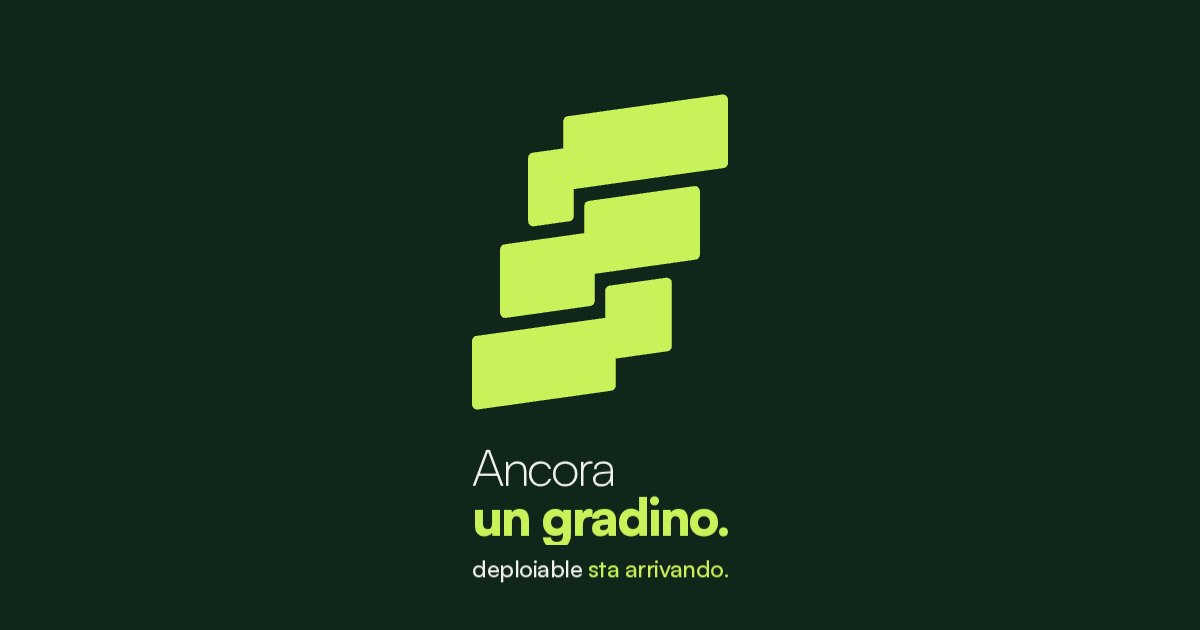
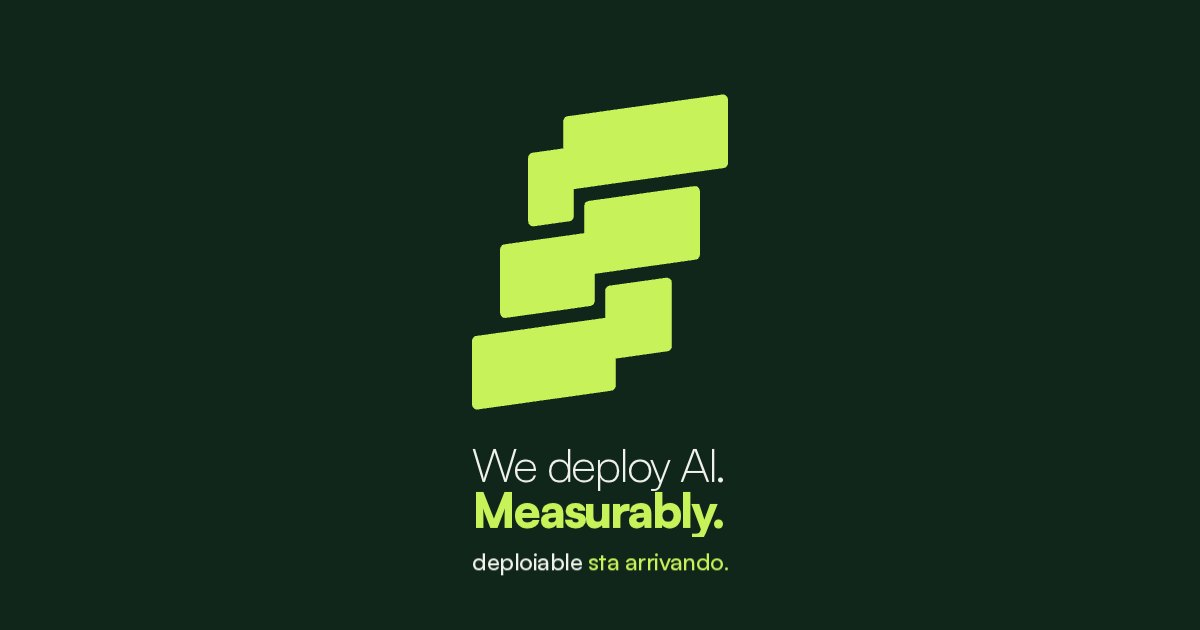
Claim: "We deploy AI. Measurably." al posto di "Ancora un gradino."
La frase dice cosa fa Deploiable (deploy AI) e lo impegna a una cosa che si
dimostra (il risultato si misura, non si garantisce), nella voce del brand book.
In inglese, con lang="en" sulle due righe; la CTA resta in italiano.

- Titolo in due righe (Light 300 + Black 900), corpo regolato in modo che la
  riga più larga stia tra 0,97 e 1,00 volte la larghezza del simbolo a
  1440×900, 1920×1080, 390×844 e 768×1024
- Meta description, anteprima social e README aggiornati
- Test della versione statica aggiornato

Claude-Session: https://claude.ai/code/session_01PeA7XYbHTW5WLG5P8a7u88

Changed region(s): [[0.37, 0.6937, 0.6167, 0.9349]]

diff --git a/site/index.html b/site/index.html
@@ -4,11 +4,11 @@
     <meta charset="utf-8" />
     <meta name="viewport" content="width=device-width, initial-scale=1, viewport-fit=cover" />
     <title>Deploiable · sta arrivando</title>
-    <meta name="description" content="Ancora un gradino. Deploiable sta arrivando." />
+    <meta name="description" content="We deploy AI. Measurably. Deploiable sta arrivando." />
     <meta name="theme-color" content="#10261B" />
     <meta property="og:type" content="website" />
     <meta property="og:title" content="Deploiable · sta arrivando" />
-    <meta property="og:description" content="Ancora un gradino. Deploiable sta arrivando." />
+    <meta property="og:description" content="We deploy AI. Measurably. Deploiable sta arrivando." />
     <meta property="og:image" content="%VITE_SITE_URL%og.jpg" />
     <meta property="og:url" content="%VITE_SITE_URL%" />
     <meta name="twitter:card" content="summary_large_image" />
@@ -28,8 +28,8 @@
 
     <main class="copy">
       <h1 class="claim">
-        <span class="mask"><span class="line line--light">Ancora</span></span>
-        <span class="mask"><span class="line line--black">un gradino.</span></span>
+        <span class="mask"><span class="line line--light" lang="en">We deploy AI.</span></span>
+        <span class="mask"><span class="line line--black" lang="en">Measurably.</span></span>
       </h1>
       <p class="cta">
         <span class="mask"><span class="line">deploiable <strong>sta arrivando.</strong></span></span>

diff --git a/site/tests/e2e/fallback.spec.ts b/site/tests/e2e/fallback.spec.ts
@@ -11,7 +11,7 @@ test.describe('versione statica', () => {
     expect(await page.evaluate(() => window.__DEPLOIABLE__!.mode)).toBe('static');
     expect(scripts.some((u) => /\/app-.*\.js/.test(u))).toBe(false);
     await expect(page.locator('.static-symbol')).toBeVisible();
-    await expect(page.getByRole('heading', { name: /Ancora un gradino/ })).toBeVisible();
+    await expect(page.getByRole('heading', { name: /We deploy AI/ })).toBeVisible();
     await expect(page.getByText('sta arrivando.')).toBeVisible();
     // testo dentro lo schermo, sotto il simbolo
     const sym = (await page.locator('.static-symbol').boundingBox())!;

diff --git a/site/src/styles/main.css b/site/src/styles/main.css
@@ -61,7 +61,7 @@ p {
   white-space: nowrap;
 }
 .claim {
-  font-size: calc(var(--sym-w) / 5);
+  font-size: calc(var(--sym-w) / 5.4);
   line-height: 0.98;
   letter-spacing: -0.045em;
   font-weight: 300;

diff --git a/site/README.md b/site/README.md
@@ -1,8 +1,8 @@
-# Deploiable · "Ancora un gradino."
+# Deploiable · "We deploy AI. Measurably."
 
 Landing pre-lancio: una sola schermata, nessuno scroll, nessuna interazione. Le tre barre del simbolo
 giocano da sole in 3D finché non scattano al loro posto; poi compare la frase.
-Titolo: **Ancora un gradino.** · CTA: **deploiable sta arrivando.**
+Titolo: **We deploy AI. Measurably.** (in inglese) · CTA: **deploiable sta arrivando.**
 
 ## L'animazione (circa 13 secondi, poi resta ferma e "viva")
 
